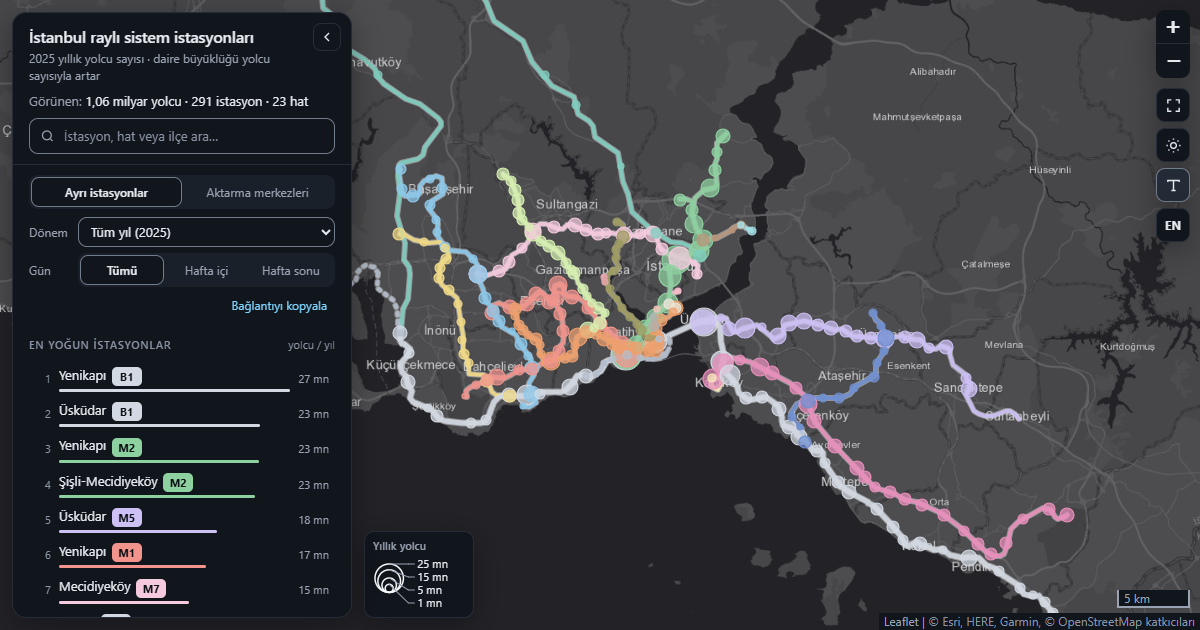
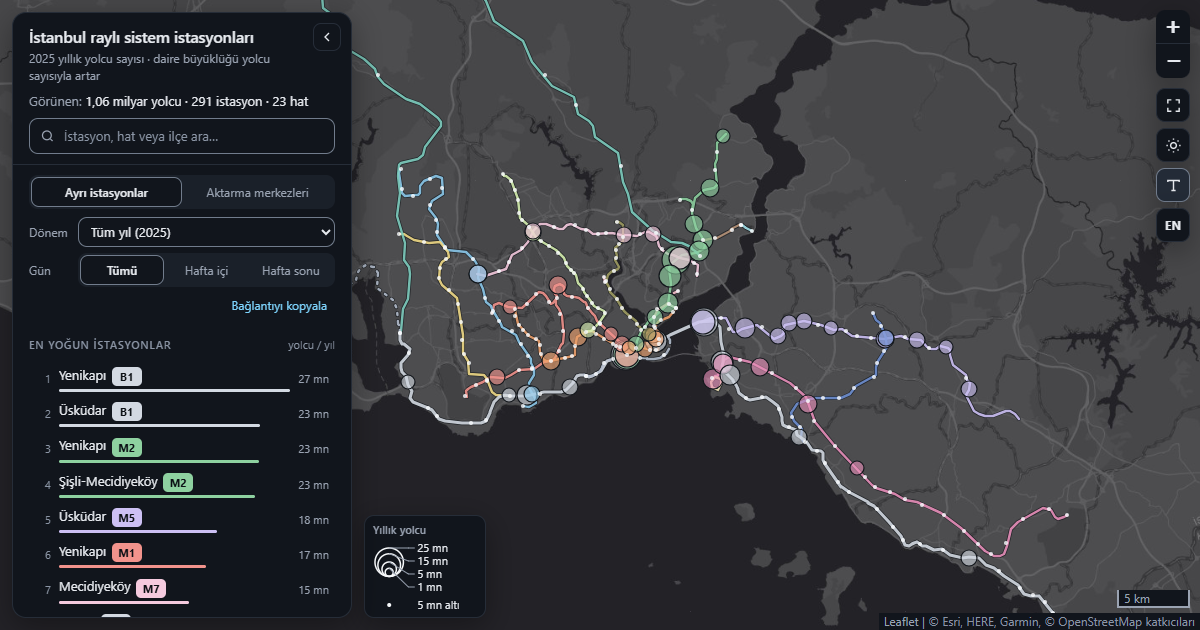
Harita: uzak görünüm sadeleştirildi, koyu görünümde daireler belirginleştirildi

diff --git a/harita/istasyon_kullanim_haritasi.html b/harita/istasyon_kullanim_haritasi.html
@@ -184,6 +184,7 @@ kbd{font:inherit;color:var(--text);border:1px solid var(--control);border-radius
 .key-t{font-size:var(--fs-cap);font-weight:600;color:var(--muted);margin-bottom:3px;white-space:nowrap}
 .key svg{display:block;overflow:visible}
 .key circle{fill:none;stroke:var(--hub);stroke-width:1.5}
+.key circle.nk{fill:var(--hub);stroke:none}
 .key polyline{fill:none;stroke:var(--muted);stroke-width:1}
 .key text{font-size:var(--fs-cap);fill:var(--text);font-variant-numeric:tabular-nums}
 
@@ -530,6 +531,7 @@ tr:{
   atif:'&copy; Esri, HERE, Garmin, &copy; OpenStreetMap katkıcıları',
   ipucuYok:'bu seçimde yolcu yok',
   anahtarYil:'Yıllık yolcu', anahtarGun:'Günlük ortalama',
+  anahtarAlt:'{v} altı', anahtarEtiketAlt:'{e}; {v} altındaki istasyonlar nokta olarak gösterilir',
   anahtarEtiketYil:'Daire boyutu göstergesi, yıllık yolcu: {liste}',
   anahtarEtiketGun:'Daire boyutu göstergesi, günlük ortalama yolcu: {liste}',
   /* istasyon ve aktarma merkezi pencereleri */
@@ -620,6 +622,7 @@ en:{
   atif:'&copy; Esri, HERE, Garmin, &copy; OpenStreetMap contributors',
   ipucuYok:'no passengers in this selection',
   anahtarYil:'Passengers / year', anahtarGun:'Daily average',
+  anahtarAlt:'under {v}', anahtarEtiketAlt:'{e}; stations under {v} are shown as dots',
   anahtarEtiketYil:'Circle size legend, passengers per year: {liste}',
   anahtarEtiketGun:'Circle size legend, daily average passengers: {liste}',
   kapat:'Close', istasyon:'Station',
@@ -842,6 +845,21 @@ let labelsOn = true, openKey = null;
 
 function radius(pax){const z=map.getZoom();const k=Math.pow(1.28,z-11);return Math.max(2.5,(1.6+Math.sqrt(pax/1e6)*2.7)*k)}
 
+/* ---------- Uzak görünüm: küçük istasyonlar nokta olur, hatlar incelir, zemin adları gizlenir ---------- */
+const KOYU = '#12161b';   // koyu görünümde daire kenarı ve hat kılıfı: daireler hattan ve birbirinden ayrılır
+const uzak = () => !focusLine && map.getZoom()<12;
+const esik = () => isDef()?5e6:15e3*365;   // yılda 5 mn ya da günde 15 bin
+function isaret(it){
+  const light=theme==='light', zero=bos(it.pax), u=uzak(), n=u&&!zero&&it.pax<esik();
+  return {radius:n?2:radius(it.pax),color:light?mix(it.color,INK):KOYU,weight:n?0:it.multi?2:1.2,fillColor:n?(light?mix(it.color,INK):'#f8fafc'):it.color,
+    fillOpacity:zero?0:n?(light?.95:.8):u?it.st.fill*.85:it.st.fill,opacity:it.st.stroke>.5?1:it.st.stroke};
+}
+const kalin = l => (LINES[l].width||4)*(uzak()?.62:1);
+function ayrinti(){
+  ORDER.forEach(l=>{const w=kalin(l);routes[l].forEach(p=>p.setStyle({weight:w}));casings[l].forEach(p=>p.setStyle({weight:w+(uzak()?1.5:2)}))});
+  ref.setOpacity(map.getZoom()<12?0:1);
+}
+
 function drawRoutes(){
   const osm=Object.fromEntries(ROUTES.features.map(f=>[f.properties.line,f.geometry.coordinates]));
   ORDER.forEach(l=>{
@@ -880,21 +898,22 @@ function syncPopOpts(){const o=popOpts();markers.forEach(m=>Object.assign(m.getP
 function panelPad(){return mobile()?{paddingTopLeft:[16,focusLine?Math.max(76,chipB()+4):16],paddingBottomRight:[64,liftPx()+28]}:{paddingTopLeft:[panelOff?64:370,focusLine?60:20],paddingBottomRight:[60,24]}}
 
 /* seçili istasyonu haritada belirginleştir */
-function hiOn(m){m.sel={weight:m.options.weight,color:m.options.color,fillOpacity:m.options.fillOpacity,opacity:m.options.opacity};m.setStyle({weight:3,color:hubCol(),fillOpacity:.9,opacity:1});m.bringToFront()}
-function hiOff(m){if(!m.sel)return;const s=m.sel;m.sel=null;if(!map.hasLayer(m))return;m.setStyle(s);for(let j=drawn.indexOf(m)+1;j>0&&j<drawn.length;j++)drawn[j].bringToFront()}
+function hiOn(m){m.sel={weight:m.options.weight,color:m.options.color,fillOpacity:m.options.fillOpacity,opacity:m.options.opacity};m.setStyle({weight:3,color:hubCol(),fillOpacity:.9,opacity:1});if(m.getRadius()<4)m.setRadius(4);m.bringToFront()}
+function hiOff(m){if(!m.sel)return;const s=m.sel;m.sel=null;if(!map.hasLayer(m))return;m.setStyle(s);m.setRadius(isaret(m.it).radius);for(let j=drawn.indexOf(m)+1;j>0&&j<drawn.length;j++)drawn[j].bringToFront()}
 
 function render(){
   routeLayer.clearLayers(); dotLayer.clearLayers(); markers.clear(); drawn.length=0;
   const light = theme==='light', po = popOpts();
+  ayrinti();
   const order = (focusLine ? [...ORDER.filter(l=>l!==focusLine),focusLine] : ORDER).filter(l=>visible.has(l));
-  order.forEach(l=>{const s=styleFor(l);casings[l].forEach(p=>{p.setStyle({color:light?INK:'#e6e9ee',opacity:(light?.6:.45)*s.route/.9});p.addTo(routeLayer)})});
+  order.forEach(l=>{const s=styleFor(l);casings[l].forEach(p=>{p.setStyle({color:light?INK:KOYU,opacity:(light?.6:.75)*s.route/.9});p.addTo(routeLayer)})});
   order.forEach(l=>{const s=styleFor(l);routes[l].forEach(p=>{p.setStyle({opacity:s.route});p.addTo(routeLayer)})});
   const items = currentItems();
   // büyükler altta, küçükler üstte kalsın ki hepsi tıklanabilsin; odaktaki hat en üstte
   items.sort((a,b)=>(a.focus-b.focus)||(b.pax-a.pax)).forEach(it=>{
     const zero=bos(it.pax);   // seçimde yolcusu olmayan istasyon: küçük, içi boş daire
-    const m=L.circleMarker([it.lat,it.lon],{radius:radius(it.pax),color:light?mix(it.color,INK):it.color,weight:it.multi?2:1.2,fillColor:it.color,fillOpacity:zero?0:it.st.fill,opacity:light&&it.st.stroke>.5?1:it.st.stroke});
-    m.pax=it.pax;
+    const m=L.circleMarker([it.lat,it.lon],isaret(it));
+    m.pax=it.pax; m.it=it;
     m.bindTooltip(`${(it.multi?it.members.map(x=>x.line):[it.line]).map(badge).join('')}<b>${esc(it.name)}</b> · ${zero?t('ipucuYok'):valU(it.pax)}`,{className:'tt',direction:'top',offset:[0,-4]});
     m.bindPopup(()=>it.multi?hubPopup(it.hub):stationPopup(it.s),po);
     m.on('popupopen',()=>{openKey=it.key;hiOn(m)}).on('popupclose',()=>{if(openKey===it.key)openKey=null;hiOff(m)});
@@ -1199,10 +1218,12 @@ function updateKey(){
   const fs=parseFloat(getComputedStyle($('key-t')).fontSize)||11, lh=Math.max(mobile()?15:13,Math.round(fs*1.2)), up=Math.round(fs*.36);   // satır yüksekliği yazı boyutuna bağlı
   const R=rs[0], B=2*R+8, cx=R+2, lx=2*R+16;
   let y=0; const ys=rs.map((r,i)=>y=Math.max(B-2*r+4,i?y+lh:Math.round(fs)));
-  const H=Math.ceil(Math.max(B,y+4))+1, W=Math.ceil(lx+fs*(def?4.3:4.7));
+  const u=uzak(), alt=u?t('anahtarAlt',{v:ad(def?esik():esik()/365)}):'', H0=Math.ceil(Math.max(B,y+4))+1, H=H0+(u?lh+3:0), W=Math.ceil(Math.max(lx+fs*(def?4.3:4.7),u?lx+fs*alt.length*.6:0));
   const s=$('key-svg'); s.setAttribute('width',W); s.setAttribute('height',H); s.setAttribute('viewBox',`0 0 ${W} ${H}`);
-  s.innerHTML=rs.map((r,i)=>`<circle cx="${cx}" cy="${(B-r).toFixed(1)}" r="${r.toFixed(1)}"/><polyline points="${cx},${(B-2*r).toFixed(1)} ${lx-9},${ys[i]-up} ${lx-3},${ys[i]-up}"/><text x="${lx}" y="${ys[i]}">${ad(vs[i])}</text>`).join('');
-  $('key').setAttribute('aria-label',t(def?'anahtarEtiketYil':'anahtarEtiketGun',{liste:vs.map(ad).join(', ')}));
+  s.innerHTML=rs.map((r,i)=>`<circle cx="${cx}" cy="${(B-r).toFixed(1)}" r="${r.toFixed(1)}"/><polyline points="${cx},${(B-2*r).toFixed(1)} ${lx-9},${ys[i]-up} ${lx-3},${ys[i]-up}"/><text x="${lx}" y="${ys[i]}">${ad(vs[i])}</text>`).join('')
+    +(u?`<circle class="nk" cx="${cx}" cy="${H0+lh-up}" r="2"/><text x="${lx}" y="${H0+lh}">${alt}</text>`:'');   // uzak görünümde nokta olarak çizilen istasyonlar
+  const e=t(def?'anahtarEtiketYil':'anahtarEtiketGun',{liste:vs.map(ad).join(', ')});
+  $('key').setAttribute('aria-label',u?t('anahtarEtiketAlt',{e,v:ad(def?esik():esik()/365)}):e);
 }
 
 /* ---------- Etiketler ---------- */
@@ -1318,7 +1339,10 @@ document.addEventListener('keydown',e=>{
   if(e.key==='Escape'){const r=ret;map.closePopup();if(focusLine)clearFocus();if(r&&r.isConnected&&r.offsetParent)r.focus()}
   else if(e.key==='/'&&!e.ctrlKey&&!e.metaKey&&!e.altKey&&document.activeElement!==q){e.preventDefault();q.focus()}
 });
-map.on('zoomend',()=>{markers.forEach(m=>m.setRadius(radius(m.pax)));updateLabels();updateKey()});
+map.on('zoomend',()=>{
+  ayrinti();
+  markers.forEach(m=>{const s=isaret(m.it);if(m.sel){m.sel={weight:s.weight,color:s.color,fillOpacity:s.fillOpacity,opacity:s.opacity};m.setRadius(Math.max(s.radius,4))}else m.setStyle(s)});
+  updateLabels();updateKey()});
 map.on('moveend',updateLabels);
 
 /* ---------- Başlangıç ve yeniden yerleşim ---------- */

diff --git a/harita/template.html b/harita/template.html
@@ -184,6 +184,7 @@ kbd{font:inherit;color:var(--text);border:1px solid var(--control);border-radius
 .key-t{font-size:var(--fs-cap);font-weight:600;color:var(--muted);margin-bottom:3px;white-space:nowrap}
 .key svg{display:block;overflow:visible}
 .key circle{fill:none;stroke:var(--hub);stroke-width:1.5}
+.key circle.nk{fill:var(--hub);stroke:none}
 .key polyline{fill:none;stroke:var(--muted);stroke-width:1}
 .key text{font-size:var(--fs-cap);fill:var(--text);font-variant-numeric:tabular-nums}
 
@@ -530,6 +531,7 @@ tr:{
   atif:'&copy; Esri, HERE, Garmin, &copy; OpenStreetMap katkıcıları',
   ipucuYok:'bu seçimde yolcu yok',
   anahtarYil:'Yıllık yolcu', anahtarGun:'Günlük ortalama',
+  anahtarAlt:'{v} altı', anahtarEtiketAlt:'{e}; {v} altındaki istasyonlar nokta olarak gösterilir',
   anahtarEtiketYil:'Daire boyutu göstergesi, yıllık yolcu: {liste}',
   anahtarEtiketGun:'Daire boyutu göstergesi, günlük ortalama yolcu: {liste}',
   /* istasyon ve aktarma merkezi pencereleri */
@@ -620,6 +622,7 @@ en:{
   atif:'&copy; Esri, HERE, Garmin, &copy; OpenStreetMap contributors',
   ipucuYok:'no passengers in this selection',
   anahtarYil:'Passengers / year', anahtarGun:'Daily average',
+  anahtarAlt:'under {v}', anahtarEtiketAlt:'{e}; stations under {v} are shown as dots',
   anahtarEtiketYil:'Circle size legend, passengers per year: {liste}',
   anahtarEtiketGun:'Circle size legend, daily average passengers: {liste}',
   kapat:'Close', istasyon:'Station',
@@ -842,6 +845,21 @@ let labelsOn = true, openKey = null;
 
 function radius(pax){const z=map.getZoom();const k=Math.pow(1.28,z-11);return Math.max(2.5,(1.6+Math.sqrt(pax/1e6)*2.7)*k)}
 
+/* ---------- Uzak görünüm: küçük istasyonlar nokta olur, hatlar incelir, zemin adları gizlenir ---------- */
+const KOYU = '#12161b';   // koyu görünümde daire kenarı ve hat kılıfı: daireler hattan ve birbirinden ayrılır
+const uzak = () => !focusLine && map.getZoom()<12;
+const esik = () => isDef()?5e6:15e3*365;   // yılda 5 mn ya da günde 15 bin
+function isaret(it){
+  const light=theme==='light', zero=bos(it.pax), u=uzak(), n=u&&!zero&&it.pax<esik();
+  return {radius:n?2:radius(it.pax),color:light?mix(it.color,INK):KOYU,weight:n?0:it.multi?2:1.2,fillColor:n?(light?mix(it.color,INK):'#f8fafc'):it.color,
+    fillOpacity:zero?0:n?(light?.95:.8):u?it.st.fill*.85:it.st.fill,opacity:it.st.stroke>.5?1:it.st.stroke};
+}
+const kalin = l => (LINES[l].width||4)*(uzak()?.62:1);
+function ayrinti(){
+  ORDER.forEach(l=>{const w=kalin(l);routes[l].forEach(p=>p.setStyle({weight:w}));casings[l].forEach(p=>p.setStyle({weight:w+(uzak()?1.5:2)}))});
+  ref.setOpacity(map.getZoom()<12?0:1);
+}
+
 function drawRoutes(){
   const osm=Object.fromEntries(ROUTES.features.map(f=>[f.properties.line,f.geometry.coordinates]));
   ORDER.forEach(l=>{
@@ -880,21 +898,22 @@ function syncPopOpts(){const o=popOpts();markers.forEach(m=>Object.assign(m.getP
 function panelPad(){return mobile()?{paddingTopLeft:[16,focusLine?Math.max(76,chipB()+4):16],paddingBottomRight:[64,liftPx()+28]}:{paddingTopLeft:[panelOff?64:370,focusLine?60:20],paddingBottomRight:[60,24]}}
 
 /* seçili istasyonu haritada belirginleştir */
-function hiOn(m){m.sel={weight:m.options.weight,color:m.options.color,fillOpacity:m.options.fillOpacity,opacity:m.options.opacity};m.setStyle({weight:3,color:hubCol(),fillOpacity:.9,opacity:1});m.bringToFront()}
-function hiOff(m){if(!m.sel)return;const s=m.sel;m.sel=null;if(!map.hasLayer(m))return;m.setStyle(s);for(let j=drawn.indexOf(m)+1;j>0&&j<drawn.length;j++)drawn[j].bringToFront()}
+function hiOn(m){m.sel={weight:m.options.weight,color:m.options.color,fillOpacity:m.options.fillOpacity,opacity:m.options.opacity};m.setStyle({weight:3,color:hubCol(),fillOpacity:.9,opacity:1});if(m.getRadius()<4)m.setRadius(4);m.bringToFront()}
+function hiOff(m){if(!m.sel)return;const s=m.sel;m.sel=null;if(!map.hasLayer(m))return;m.setStyle(s);m.setRadius(isaret(m.it).radius);for(let j=drawn.indexOf(m)+1;j>0&&j<drawn.length;j++)drawn[j].bringToFront()}
 
 function render(){
   routeLayer.clearLayers(); dotLayer.clearLayers(); markers.clear(); drawn.length=0;
   const light = theme==='light', po = popOpts();
+  ayrinti();
   const order = (focusLine ? [...ORDER.filter(l=>l!==focusLine),focusLine] : ORDER).filter(l=>visible.has(l));
-  order.forEach(l=>{const s=styleFor(l);casings[l].forEach(p=>{p.setStyle({color:light?INK:'#e6e9ee',opacity:(light?.6:.45)*s.route/.9});p.addTo(routeLayer)})});
+  order.forEach(l=>{const s=styleFor(l);casings[l].forEach(p=>{p.setStyle({color:light?INK:KOYU,opacity:(light?.6:.75)*s.route/.9});p.addTo(routeLayer)})});
   order.forEach(l=>{const s=styleFor(l);routes[l].forEach(p=>{p.setStyle({opacity:s.route});p.addTo(routeLayer)})});
   const items = currentItems();
   // büyükler altta, küçükler üstte kalsın ki hepsi tıklanabilsin; odaktaki hat en üstte
   items.sort((a,b)=>(a.focus-b.focus)||(b.pax-a.pax)).forEach(it=>{
     const zero=bos(it.pax);   // seçimde yolcusu olmayan istasyon: küçük, içi boş daire
-    const m=L.circleMarker([it.lat,it.lon],{radius:radius(it.pax),color:light?mix(it.color,INK):it.color,weight:it.multi?2:1.2,fillColor:it.color,fillOpacity:zero?0:it.st.fill,opacity:light&&it.st.stroke>.5?1:it.st.stroke});
-    m.pax=it.pax;
+    const m=L.circleMarker([it.lat,it.lon],isaret(it));
+    m.pax=it.pax; m.it=it;
     m.bindTooltip(`${(it.multi?it.members.map(x=>x.line):[it.line]).map(badge).join('')}<b>${esc(it.name)}</b> · ${zero?t('ipucuYok'):valU(it.pax)}`,{className:'tt',direction:'top',offset:[0,-4]});
     m.bindPopup(()=>it.multi?hubPopup(it.hub):stationPopup(it.s),po);
     m.on('popupopen',()=>{openKey=it.key;hiOn(m)}).on('popupclose',()=>{if(openKey===it.key)openKey=null;hiOff(m)});
@@ -1199,10 +1218,12 @@ function updateKey(){
   const fs=parseFloat(getComputedStyle($('key-t')).fontSize)||11, lh=Math.max(mobile()?15:13,Math.round(fs*1.2)), up=Math.round(fs*.36);   // satır yüksekliği yazı boyutuna bağlı
   const R=rs[0], B=2*R+8, cx=R+2, lx=2*R+16;
   let y=0; const ys=rs.map((r,i)=>y=Math.max(B-2*r+4,i?y+lh:Math.round(fs)));
-  const H=Math.ceil(Math.max(B,y+4))+1, W=Math.ceil(lx+fs*(def?4.3:4.7));
+  const u=uzak(), alt=u?t('anahtarAlt',{v:ad(def?esik():esik()/365)}):'', H0=Math.ceil(Math.max(B,y+4))+1, H=H0+(u?lh+3:0), W=Math.ceil(Math.max(lx+fs*(def?4.3:4.7),u?lx+fs*alt.length*.6:0));
   const s=$('key-svg'); s.setAttribute('width',W); s.setAttribute('height',H); s.setAttribute('viewBox',`0 0 ${W} ${H}`);
-  s.innerHTML=rs.map((r,i)=>`<circle cx="${cx}" cy="${(B-r).toFixed(1)}" r="${r.toFixed(1)}"/><polyline points="${cx},${(B-2*r).toFixed(1)} ${lx-9},${ys[i]-up} ${lx-3},${ys[i]-up}"/><text x="${lx}" y="${ys[i]}">${ad(vs[i])}</text>`).join('');
-  $('key').setAttribute('aria-label',t(def?'anahtarEtiketYil':'anahtarEtiketGun',{liste:vs.map(ad).join(', ')}));
+  s.innerHTML=rs.map((r,i)=>`<circle cx="${cx}" cy="${(B-r).toFixed(1)}" r="${r.toFixed(1)}"/><polyline points="${cx},${(B-2*r).toFixed(1)} ${lx-9},${ys[i]-up} ${lx-3},${ys[i]-up}"/><text x="${lx}" y="${ys[i]}">${ad(vs[i])}</text>`).join('')
+    +(u?`<circle class="nk" cx="${cx}" cy="${H0+lh-up}" r="2"/><text x="${lx}" y="${H0+lh}">${alt}</text>`:'');   // uzak görünümde nokta olarak çizilen istasyonlar
+  const e=t(def?'anahtarEtiketYil':'anahtarEtiketGun',{liste:vs.map(ad).join(', ')});
+  $('key').setAttribute('aria-label',u?t('anahtarEtiketAlt',{e,v:ad(def?esik():esik()/365)}):e);
 }
 
 /* ---------- Etiketler ---------- */
@@ -1318,7 +1339,10 @@ document.addEventListener('keydown',e=>{
   if(e.key==='Escape'){const r=ret;map.closePopup();if(focusLine)clearFocus();if(r&&r.isConnected&&r.offsetParent)r.focus()}
   else if(e.key==='/'&&!e.ctrlKey&&!e.metaKey&&!e.altKey&&document.activeElement!==q){e.preventDefault();q.focus()}
 });
-map.on('zoomend',()=>{markers.forEach(m=>m.setRadius(radius(m.pax)));updateLabels();updateKey()});
+map.on('zoomend',()=>{
+  ayrinti();
+  markers.forEach(m=>{const s=isaret(m.it);if(m.sel){m.sel={weight:s.weight,color:s.color,fillOpacity:s.fillOpacity,opacity:s.opacity};m.setRadius(Math.max(s.radius,4))}else m.setStyle(s)});
+  updateLabels();updateKey()});
 map.on('moveend',updateLabels);
 
 /* ---------- Başlangıç ve yeniden yerleşim ---------- */

diff --git a/README.md b/README.md
@@ -65,7 +65,7 @@ Diğer grafikler (hat payları, en yoğun 10 istasyon, aylık seyir, yaş dağı
 
 291 noktanın (288 istasyon ve istasyon bazında veri tutulmayan üç hattın toplamı) 2025 yılı yolcu sayılarını gösteren etkileşimli harita. Daire büyüklüğü yolcu sayısıyla artıyor, renkler ise hatları gösteriyor. Bir hattın adına tıklayınca harita o hatta odaklanır ve diğer hatlar soluklaşır; yanındaki kutucuk hattı tamamen gizler. Hat güzergâhları, duraklar arasındaki gerçek ray geometrileri kullanılarak OpenStreetMap verilerinden oluşturuldu.
 
-Harita yalnızca yıllık toplamı değil, ayları ve gün türünü de gösteriyor: dönem (yıl ya da tek bir ay) ve gün türü (tümü, hafta içi, hafta sonu) seçildiğinde daireler o seçimin günlük ortalamasına göre yeniden boyutlanıyor. Bir istasyona tıklayınca açılan pencerede 12 aylık seyir, hafta sonu / hafta içi oranı ve yolcuların yaş dağılımı görünüyor. Bir hatta odaklanınca o hattın profili açılıyor: istasyonlar güzergâh sırasıyla ve yolcu sayılarıyla listeleniyor (tek kayıtlı T2, T3 ve TF1 hatlarında profil yok). "Aktarma merkezleri" görünümü, birbirine yakın farklı hat istasyonlarını tek dairede topluyor.
+Harita yalnızca yıllık toplamı değil, ayları ve gün türünü de gösteriyor: dönem (yıl ya da tek bir ay) ve gün türü (tümü, hafta içi, hafta sonu) seçildiğinde daireler o seçimin günlük ortalamasına göre yeniden boyutlanıyor. Bir istasyona tıklayınca açılan pencerede 12 aylık seyir, hafta sonu / hafta içi oranı ve yolcuların yaş dağılımı görünüyor. Bir hatta odaklanınca o hattın profili açılıyor: istasyonlar güzergâh sırasıyla ve yolcu sayılarıyla listeleniyor (tek kayıtlı T2, T3 ve TF1 hatlarında profil yok). "Aktarma merkezleri" görünümü, birbirine yakın farklı hat istasyonlarını tek dairede topluyor. Harita uzaktan bakılırken yılda 5 milyondan az yolcusu olan istasyonlar küçük nokta olarak çiziliyor ve hatlar inceliyor; yaklaşınca daireler geri geliyor.
 
 Seçili hat, dönem, gün türü, görünüm, gizlenen hatlar ve dil adres çubuğuna yazıldığı için her görünüm bağlantıyla paylaşılabiliyor. Günlük ortalamalar, toplamın takvimdeki gün sayısına bölünmesiyle hesaplanıyor; yıl içinde açılan istasyonlarda bu yüzden düşük çıkıyor. İstasyon penceresindeki aylık grafik ise yalnızca verisi olan ayların ortalamasını temel alıyor. Arayüz Türkçe ve İngilizce kullanılabiliyor; istasyon ve hat adları Türkçe kalıyor.
 

diff --git a/README.en.md b/README.en.md
@@ -67,7 +67,7 @@ The other charts (line shares, the ten busiest stations, the monthly trend, age 
 
 An interactive map of 2025 ridership at 291 points: 288 stations, plus the line totals of three lines that are not recorded per station. Circle size grows with the number of passengers, and colour shows the line. Clicking a line's name focuses the map on that line and fades the others; the checkbox next to it hides the line completely. Line routes are drawn from the real track geometry in OpenStreetMap.
 
-The map shows more than the annual total. You can choose a period (the whole year or a single month) and a day type (all days, weekdays, weekends), and the circles are resized to the daily average for that selection. Clicking a station opens a panel with its trend over the twelve months, its weekend-to-weekday ratio and the age distribution of its passengers. Focusing a line shows its profile: the stations in route order with their ridership (the single-record lines T2, T3 and TF1 have no profile). The "Transfer hubs" view merges nearby stations of different lines into one circle.
+The map shows more than the annual total. You can choose a period (the whole year or a single month) and a day type (all days, weekdays, weekends), and the circles are resized to the daily average for that selection. Clicking a station opens a panel with its trend over the twelve months, its weekend-to-weekday ratio and the age distribution of its passengers. Focusing a line shows its profile: the stations in route order with their ridership (the single-record lines T2, T3 and TF1 have no profile). The "Transfer hubs" view merges nearby stations of different lines into one circle. When the map is zoomed out, stations with fewer than 5 million passengers a year are drawn as small dots and the lines are thinner; zooming in brings back the full circles.
 
 The focused line, period, day type, view, hidden lines and language are written to the address bar, so any view can be shared as a link. Daily averages are the total divided by the number of calendar days, so stations that opened during the year show lower figures. The monthly chart in a station's panel is the exception: it is based on the average of the months that have data. The interface is available in Turkish and English; station, district and route names are left in Turkish.
 

diff --git a/harita/README.md b/harita/README.md
@@ -2,7 +2,7 @@
 
 İstasyon Kullanım Haritası
 
-Bu proje, İstanbul'daki raylı sistem istasyonlarının 2025 yılı yolcu sayılarını etkileşimli bir harita üzerinde gösterir. Hat güzergâhları, OpenStreetMap'ten alınan gerçek ray geometrileri kullanılarak çizilmiştir.
+Bu proje, İstanbul'daki raylı sistem istasyonlarının 2025 yılı yolcu sayılarını etkileşimli bir harita üzerinde gösterir. Hat güzergâhları, OpenStreetMap'ten alınan gerçek ray geometrileri kullanılarak çizilmiştir. Harita uzaktan bakılırken sadeleşir: yılda 5 milyondan az yolcusu olan istasyonlar küçük nokta olarak çizilir, hatlar incelir ve zemin haritanın yer adları gizlenir; yaklaşınca tam görünüm geri gelir.
 
 Altlık: Esri World Gray Canvas (açık/koyu tema).  
 Kaynaklar: Yolcu verileri İBB Açık Veri Portalı; ray geometrileri ve durak noktaları © OpenStreetMap katkıcıları (ODbL).
